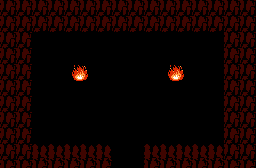
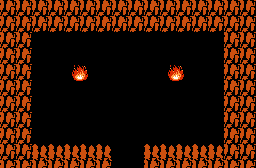
loshmi mudrac

Changed region(s): [[0.0, 0.0, 1.0, 1.0]]

diff --git a/project.c b/project.c
@@ -8,7 +8,6 @@
 #include "title_screen_idx4.h"
 #include "screens_idx4.h"
 #include "screen_tile_index.h"
-#include "cave_idx4.h"
 
 
 ///////////////////////////////////////////////////////////////////////////////
@@ -354,7 +353,7 @@ void init_HUD() {
 
 	for(int r1 = 8; r1 < 40 + 8; r1++){
 		for(int c = 16; c < 16 + 64; c++){
-			unpack_idx4_p32[r1*SCREEN_IDX4_W + c] = 4;
+			unpack_idx4_p32[r1*SCREEN_IDX4_W + c] = 5;
 		}
 	}
 	
@@ -367,7 +366,7 @@ void update_minimap(uint32_t old_screen, uint32_t current_screen) {
 	int sc_y = old_screen / OVERWORLD_MAPS_H;
 	for(int r1 = 8 + sc_y*5; r1 < 8 + (sc_y + 1)*5; r1++){
 		for(int c = 16 + sc_x*4; c < 16 + (sc_x + 1) * 4; c++){
-			unpack_idx4_p32[r1*SCREEN_IDX4_W + c] = 4;
+			unpack_idx4_p32[r1*SCREEN_IDX4_W + c] = 5;
 		}
 	}
 
